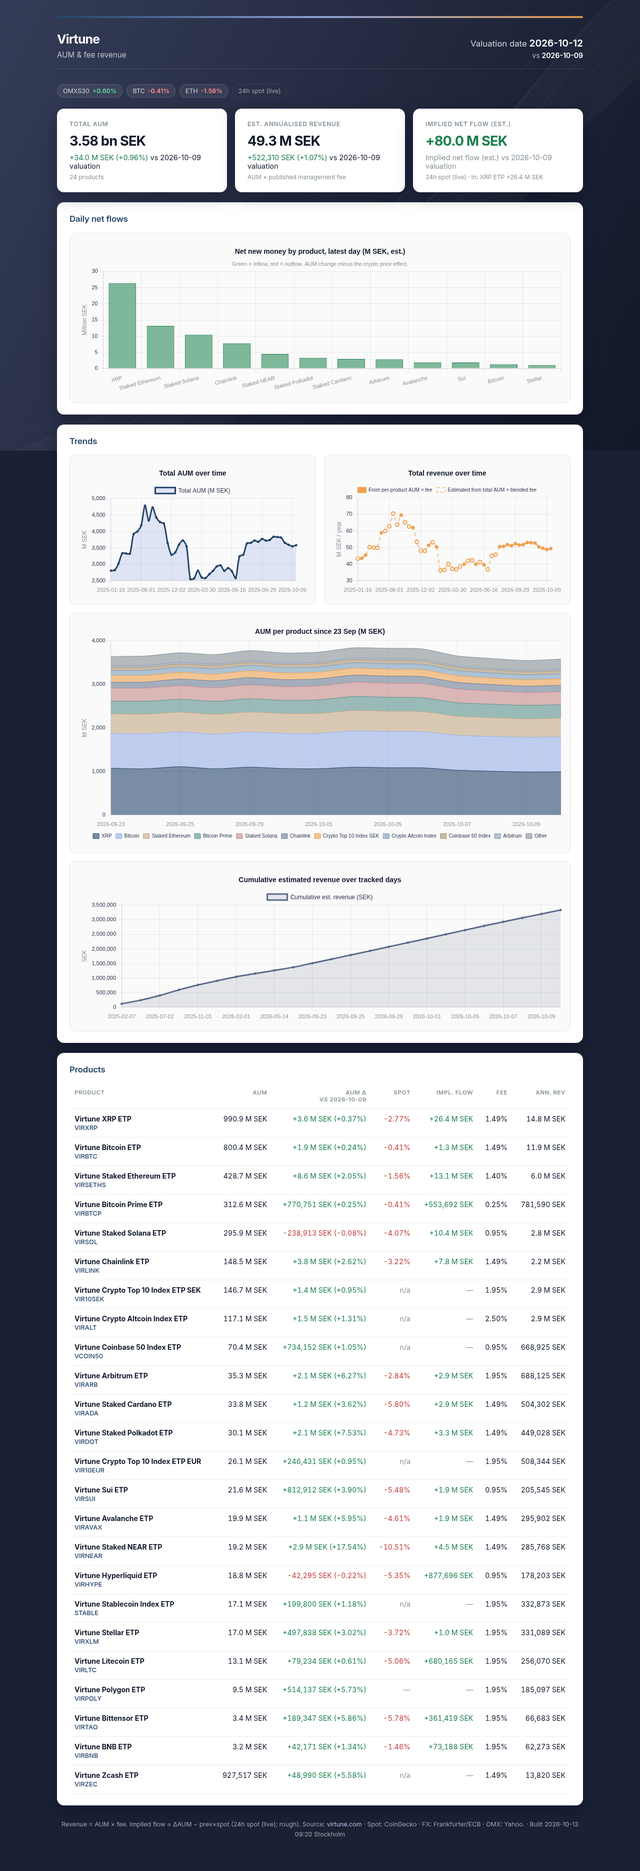
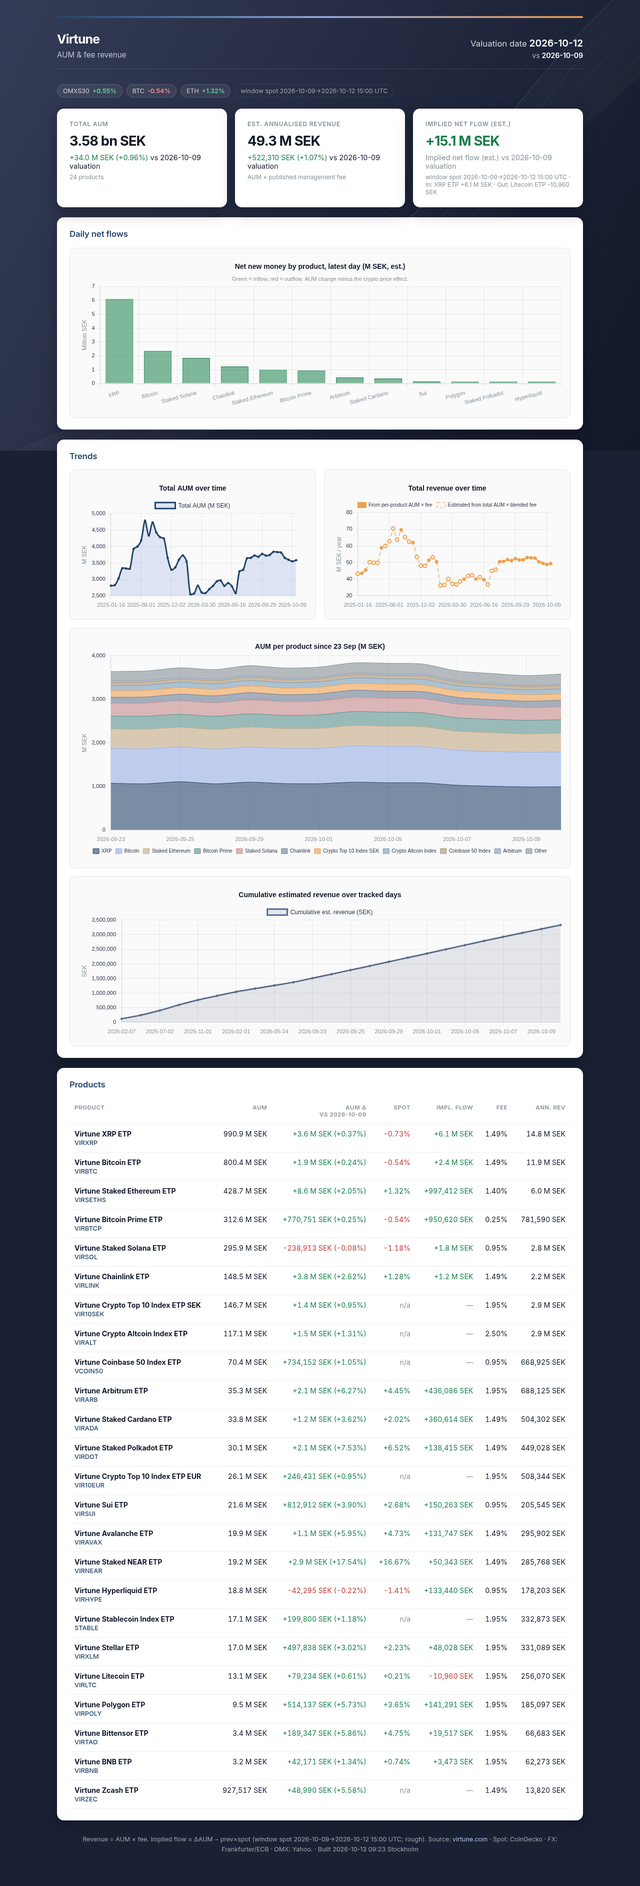
Update dashboard 2026-10-13 09:24 CEST

diff --git a/index.html b/index.html
@@ -253,7 +253,7 @@
     </div>
   </header>
 
-  <div class="market" title="Market context · spot is 24h spot (live)"><span class="chip" title="Yahoo ^OMX">OMXS30 <strong class="up">+0.60%</strong></span><span class="chip" title="24h spot (live)">BTC <strong class="down">-0.41%</strong></span><span class="chip" title="24h spot (live)">ETH <strong class="down">-1.56%</strong></span><span class="chip muted spot-note">24h spot (live)</span></div>
+  <div class="market" title="Market context · spot is window spot 2026-10-09→2026-10-12 15:00 UTC"><span class="chip" title="Yahoo ^OMX">OMXS30 <strong class="up">+0.55%</strong></span><span class="chip" title="window spot 2026-10-09→2026-10-12 15:00 UTC">BTC <strong class="down">-0.54%</strong></span><span class="chip" title="window spot 2026-10-09→2026-10-12 15:00 UTC">ETH <strong class="up">+1.32%</strong></span><span class="chip muted spot-note">window spot 2026-10-09→2026-10-12 15:00 UTC</span></div>
 
   <div class="cards">
     <div class="card">
@@ -270,9 +270,9 @@
     </div>
     <div class="card">
       <div class="label">Implied net flow (est.)</div>
-      <div class="value"><span class="up">+80.0 M SEK</span></div>
+      <div class="value"><span class="up">+15.1 M SEK</span></div>
       <div class="delta muted">Implied net flow (est.) vs 2026-10-09 valuation</div>
-      <div class="usd" style="margin-top:6px">24h spot (live) · In: XRP ETP +26.4 M SEK</div>
+      <div class="usd" style="margin-top:6px">window spot 2026-10-09→2026-10-12 15:00 UTC · In: XRP ETP +6.1 M SEK · Out: Litecoin ETP -10,960 SEK</div>
     </div>
   </div>
 
@@ -304,7 +304,7 @@
             <th>Product</th>
             <th style="text-align:right">AUM</th>
             <th style="text-align:right">AUM Δ<br>vs 2026-10-09</th>
-            <th style="text-align:right" title="24h spot (live)">Spot</th>
+            <th style="text-align:right" title="window spot 2026-10-09→2026-10-12 15:00 UTC">Spot</th>
             <th style="text-align:right" title="ΔAUM − prev×spot (est.)">Impl. flow</th>
             <th style="text-align:right">Fee</th>
             <th style="text-align:right">Ann. rev</th>
@@ -316,8 +316,8 @@
             <span class="ticker">VIRXRP</span></td>
           <td class="num">990.9 M<span class="unit"> SEK</span></td>
           <td class="num"><span class="up">+3.6 M<span class="unit"> SEK</span> (+0.37%)</span></td>
-          <td class="num" title="24h spot (live)"><span class="down">-2.77%</span></td>
-          <td class="num"><span class="up" title="Implied net flow (est.)">+26.4 M<span class="unit"> SEK</span></span></td>
+          <td class="num" title="window spot 2026-10-09→2026-10-12 15:00 UTC"><span class="down">-0.73%</span></td>
+          <td class="num"><span class="up" title="Implied net flow (est.)">+6.1 M<span class="unit"> SEK</span></span></td>
           <td class="num">1.49%</td>
           <td class="num">14.8 M<span class="unit"> SEK</span></td>
         </tr>
@@ -326,8 +326,8 @@
             <span class="ticker">VIRBTC</span></td>
           <td class="num">800.4 M<span class="unit"> SEK</span></td>
           <td class="num"><span class="up">+1.9 M<span class="unit"> SEK</span> (+0.24%)</span></td>
-          <td class="num" title="24h spot (live)"><span class="down">-0.41%</span></td>
-          <td class="num"><span class="up" title="Implied net flow (est.)">+1.3 M<span class="unit"> SEK</span></span></td>
+          <td class="num" title="window spot 2026-10-09→2026-10-12 15:00 UTC"><span class="down">-0.54%</span></td>
+          <td class="num"><span class="up" title="Implied net flow (est.)">+2.4 M<span class="unit"> SEK</span></span></td>
           <td class="num">1.49%</td>
           <td class="num">11.9 M<span class="unit"> SEK</span></td>
         </tr>
@@ -336,8 +336,8 @@
             <span class="ticker">VIRSETHS</span></td>
           <td class="num">428.7 M<span class="unit"> SEK</span></td>
           <td class="num"><span class="up">+8.6 M<span class="unit"> SEK</span> (+2.05%)</span></td>
-          <td class="num" title="24h spot (live)"><span class="down">-1.56%</span></td>
-          <td class="num"><span class="up" title="Implied net flow (est.)">+13.1 M<span class="unit"> SEK</span></span></td>
+          <td class="num" title="window spot 2026-10-09→2026-10-12 15:00 UTC"><span class="up">+1.32%</span></td>
+          <td class="num"><span class="up" title="Implied net flow (est.)">+997,412<span class="unit"> SEK</span></span></td>
           <td class="num">1.40%</td>
           <td class="num">6.0 M<span class="unit"> SEK</span></td>
         </tr>
@@ -346,8 +346,8 @@
             <span class="ticker">VIRBTCP</span></td>
           <td class="num">312.6 M<span class="unit"> SEK</span></td>
           <td class="num"><span class="up">+770,751<span class="unit"> SEK</span> (+0.25%)</span></td>
-          <td class="num" title="24h spot (live)"><span class="down">-0.41%</span></td>
-          <td class="num"><span class="up" title="Implied net flow (est.)">+553,692<span class="unit"> SEK</span></span></td>
+          <td class="num" title="window spot 2026-10-09→2026-10-12 15:00 UTC"><span class="down">-0.54%</span></td>
+          <td class="num"><span class="up" title="Implied net flow (est.)">+950,620<span class="unit"> SEK</span></span></td>
           <td class="num">0.25%</td>
           <td class="num">781,590<span class="unit"> SEK</span></td>
         </tr>
@@ -356,8 +356,8 @@
             <span class="ticker">VIRSOL</span></td>
           <td class="num">295.9 M<span class="unit"> SEK</span></td>
           <td class="num"><span class="down">-238,913<span class="unit"> SEK</span> (-0.08%)</span></td>
-          <td class="num" title="24h spot (live)"><span class="down">-4.07%</span></td>
-          <td class="num"><span class="up" title="Implied net flow (est.)">+10.4 M<span class="unit"> SEK</span></span></td>
+          <td class="num" title="window spot 2026-10-09→2026-10-12 15:00 UTC"><span class="down">-1.18%</span></td>
+          <td class="num"><span class="up" title="Implied net flow (est.)">+1.8 M<span class="unit"> SEK</span></span></td>
           <td class="num">0.95%</td>
           <td class="num">2.8 M<span class="unit"> SEK</span></td>
         </tr>
@@ -366,8 +366,8 @@
             <span class="ticker">VIRLINK</span></td>
           <td class="num">148.5 M<span class="unit"> SEK</span></td>
           <td class="num"><span class="up">+3.8 M<span class="unit"> SEK</span> (+2.62%)</span></td>
-          <td class="num" title="24h spot (live)"><span class="down">-3.22%</span></td>
-          <td class="num"><span class="up" title="Implied net flow (est.)">+7.8 M<span class="unit"> SEK</span></span></td>
+          <td class="num" title="window spot 2026-10-09→2026-10-12 15:00 UTC"><span class="up">+1.28%</span></td>
+          <td class="num"><span class="up" title="Implied net flow (est.)">+1.2 M<span class="unit"> SEK</span></span></td>
           <td class="num">1.49%</td>
           <td class="num">2.2 M<span class="unit"> SEK</span></td>
         </tr>
@@ -376,7 +376,7 @@
             <span class="ticker">VIR10SEK</span></td>
           <td class="num">146.7 M<span class="unit"> SEK</span></td>
           <td class="num"><span class="up">+1.4 M<span class="unit"> SEK</span> (+0.95%)</span></td>
-          <td class="num" title="24h spot (live)"><span class="muted" title="Index / multi-asset">n/a</span></td>
+          <td class="num" title="window spot 2026-10-09→2026-10-12 15:00 UTC"><span class="muted" title="Index / multi-asset">n/a</span></td>
           <td class="num"><span class="muted">—</span></td>
           <td class="num">1.95%</td>
           <td class="num">2.9 M<span class="unit"> SEK</span></td>
@@ -386,7 +386,7 @@
             <span class="ticker">VIRALT</span></td>
           <td class="num">117.1 M<span class="unit"> SEK</span></td>
           <td class="num"><span class="up">+1.5 M<span class="unit"> SEK</span> (+1.31%)</span></td>
-          <td class="num" title="24h spot (live)"><span class="muted" title="Index / multi-asset">n/a</span></td>
+          <td class="num" title="window spot 2026-10-09→2026-10-12 15:00 UTC"><span class="muted" title="Index / multi-asset">n/a</span></td>
           <td class="num"><span class="muted">—</span></td>
           <td class="num">2.50%</td>
           <td class="num">2.9 M<span class="unit"> SEK</span></td>
@@ -396,7 +396,7 @@
             <span class="ticker">VCOIN50</span></td>
           <td class="num">70.4 M<span class="unit"> SEK</span></td>
           <td class="num"><span class="up">+734,152<span class="unit"> SEK</span> (+1.05%)</span></td>
-          <td class="num" title="24h spot (live)"><span class="muted" title="Index / multi-asset">n/a</span></td>
+          <td class="num" title="window spot 2026-10-09→2026-10-12 15:00 UTC"><span class="muted" title="Index / multi-asset">n/a</span></td>
           <td class="num"><span class="muted">—</span></td>
           <td class="num">0.95%</td>
           <td class="num">668,925<span class="unit"> SEK</span></td>
@@ -406,8 +406,8 @@
             <span class="ticker">VIRARB</span></td>
           <td class="num">35.3 M<span class="unit"> SEK</span></td>
           <td class="num"><span class="up">+2.1 M<span class="unit"> SEK</span> (+6.27%)</span></td>
-          <td class="num" title="24h spot (live)"><span class="down">-2.84%</span></td>
-          <td class="num"><span class="up" title="Implied net flow (est.)">+2.9 M<span class="unit"> SEK</span></span></td>
+          <td class="num" title="window spot 2026-10-09→2026-10-12 15:00 UTC"><span class="up">+4.45%</span></td>
+          <td class="num"><span class="up" title="Implied net flow (est.)">+436,086<span class="unit"> SEK</span></span></td>
           <td class="num">1.95%</td>
           <td class="num">688,125<span class="unit"> SEK</span></td>
         </tr>
@@ -416,8 +416,8 @@
             <span class="ticker">VIRADA</span></td>
           <td class="num">33.8 M<span class="unit"> SEK</span></td>
           <td class="num"><span class="up">+1.2 M<span class="unit"> SEK</span> (+3.62%)</span></td>
-          <td class="num" title="24h spot (live)"><span class="down">-5.80%</span></td>
-          <td class="num"><span class="up" title="Implied net flow (est.)">+2.9 M<span class="unit"> SEK</span></span></td>
+          <td class="num" title="window spot 2026-10-09→2026-10-12 15:00 UTC"><span class="up">+2.02%</span></td>
+          <td class="num"><span class="up" title="Implied net flow (est.)">+360,614<span class="unit"> SEK</span></span></td>
           <td class="num">1.49%</td>
           <td class="num">504,302<span class="unit"> SEK</span></td>
         </tr>
@@ -426,8 +426,8 @@
             <span class="ticker">VIRDOT</span></td>
           <td class="num">30.1 M<span class="unit"> SEK</span></td>
           <td class="num"><span class="up">+2.1 M<span class="unit"> SEK</span> (+7.53%)</span></td>
-          <td class="num" title="24h spot (live)"><span class="down">-4.73%</span></td>
-          <td class="num"><span class="up" title="Implied net flow (est.)">+3.3 M<span class="unit"> SEK</span></span></td>
+          <td class="num" title="window spot 2026-10-09→2026-10-12 15:00 UTC"><span class="up">+6.52%</span></td>
+          <td class="num"><span class="up" title="Implied net flow (est.)">+138,415<span class="unit"> SEK</span></span></td>
           <td class="num">1.49%</td>
           <td class="num">449,028<span class="unit"> SEK</span></td>
         </tr>
@@ -436,7 +436,7 @@
             <span class="ticker">VIR10EUR</span></td>
           <td class="num">26.1 M<span class="unit"> SEK</span></td>
           <td class="num"><span class="up">+246,431<span class="unit"> SEK</span> (+0.95%)</span></td>
-          <td class="num" title="24h spot (live)"><span class="muted" title="Index / multi-asset">n/a</span></td>
+          <td class="num" title="window spot 2026-10-09→2026-10-12 15:00 UTC"><span class="muted" title="Index / multi-asset">n/a</span></td>
           <td class="num"><span class="muted">—</span></td>
           <td class="num">1.95%</td>
           <td class="num">508,344<span class="unit"> SEK</span></td>
@@ -446,8 +446,8 @@
             <span class="ticker">VIRSUI</span></td>
           <td class="num">21.6 M<span class="unit"> SEK</span></td>
           <td class="num"><span class="up">+812,912<span class="unit"> SEK</span> (+3.90%)</span></td>
-          <td class="num" title="24h spot (live)"><span class="down">-5.48%</span></td>
-          <td class="num"><span class="up" title="Implied net flow (est.)">+1.9 M<span class="unit"> SEK</span></span></td>
+          <td class="num" title="window spot 2026-10-09→2026-10-12 15:00 UTC"><span class="up">+2.68%</span></td>
+          <td class="num"><span class="up" title="Implied net flow (est.)">+150,263<span class="unit"> SEK</span></span></td>
           <td class="num">0.95%</td>
           <td class="num">205,545<span class="unit"> SEK</span></td>
         </tr>
@@ -456,8 +456,8 @@
             <span class="ticker">VIRAVAX</span></td>
           <td class="num">19.9 M<span class="unit"> SEK</span></td>
           <td class="num"><span class="up">+1.1 M<span class="unit"> SEK</span> (+5.95%)</span></td>
-          <td class="num" title="24h spot (live)"><span class="down">-4.61%</span></td>
-          <td class="num"><span class="up" title="Implied net flow (est.)">+1.9 M<span class="unit"> SEK</span></span></td>
+          <td class="num" title="window spot 2026-10-09→2026-10-12 15:00 UTC"><span class="up">+4.73%</span></td>
+          <td class="num"><span class="up" title="Implied net flow (est.)">+131,747<span class="unit"> SEK</span></span></td>
           <td class="num">1.49%</td>
           <td class="num">295,902<span class="unit"> SEK</span></td>
         </tr>
@@ -466,8 +466,8 @@
             <span class="ticker">VIRNEAR</span></td>
           <td class="num">19.2 M<span class="unit"> SEK</span></td>
           <td class="num"><span class="up">+2.9 M<span class="unit"> SEK</span> (+17.54%)</span></td>
-          <td class="num" title="24h spot (live)"><span class="down">-10.51%</span></td>
-          <td class="num"><span class="up" title="Implied net flow (est.)">+4.5 M<span class="unit"> SEK</span></span></td>
+          <td class="num" title="window spot 2026-10-09→2026-10-12 15:00 UTC"><span class="up">+16.67%</span></td>
+          <td class="num"><span class="up" title="Implied net flow (est.)">+50,343<span class="unit"> SEK</span></span></td>
           <td class="num">1.49%</td>
           <td class="num">285,768<span class="unit"> SEK</span></td>
         </tr>
@@ -476,8 +476,8 @@
             <span class="ticker">VIRHYPE</span></td>
           <td class="num">18.8 M<span class="unit"> SEK</span></td>
           <td class="num"><span class="down">-42,295<span class="unit"> SEK</span> (-0.22%)</span></td>
-          <td class="num" title="24h spot (live)"><span class="down">-5.35%</span></td>
-          <td class="num"><span class="up" title="Implied net flow (est.)">+877,696<span class="unit"> SEK</span></span></td>
+          <td class="num" title="window spot 2026-10-09→2026-10-12 15:00 UTC"><span class="down">-1.41%</span></td>
+          <td class="num"><span class="up" title="Implied net flow (est.)">+133,440<span class="unit"> SEK</span></span></td>
           <td class="num">0.95%</td>
           <td class="num">178,203<span class="unit"> SEK</span></td>
         </tr>
@@ -486,7 +486,7 @@
             <span class="ticker">STABLE</span></td>
           <td class="num">17.1 M<span class="unit"> SEK</span></td>
           <td class="num"><span class="up">+199,800<span class="unit"> SEK</span> (+1.18%)</span></td>
-          <td class="num" title="24h spot (live)"><span class="muted" title="Index / multi-asset">n/a</span></td>
+          <td class="num" title="window spot 2026-10-09→2026-10-12 15:00 UTC"><span class="muted" title="Index / multi-asset">n/a</span></td>
           <td class="num"><span class="muted">—</span></td>
           <td class="num">1.95%</td>
           <td class="num">332,873<span class="unit"> SEK</span></td>
@@ -496,8 +496,8 @@
             <span class="ticker">VIRXLM</span></td>
           <td class="num">17.0 M<span class="unit"> SEK</span></td>
           <td class="num"><span class="up">+497,838<span class="unit"> SEK</span> (+3.02%)</span></td>
-          <td class="num" title="24h spot (live)"><span class="down">-3.72%</span></td>
-          <td class="num"><span class="up" title="Implied net flow (est.)">+1.0 M<span class="unit"> SEK</span></span></td>
+          <td class="num" title="window spot 2026-10-09→2026-10-12 15:00 UTC"><span class="up">+2.23%</span></td>
+          <td class="num"><span class="up" title="Implied net flow (est.)">+48,028<span class="unit"> SEK</span></span></td>
           <td class="num">1.95%</td>
           <td class="num">331,089<span class="unit"> SEK</span></td>
         </tr>
@@ -506,8 +506,8 @@
             <span class="ticker">VIRLTC</span></td>
           <td class="num">13.1 M<span class="unit"> SEK</span></td>
           <td class="num"><span class="up">+79,234<span class="unit"> SEK</span> (+0.61%)</span></td>
-          <td class="num" title="24h spot (live)"><span class="down">-5.06%</span></td>
-          <td class="num"><span class="up" title="Implied net flow (est.)">+680,165<span class="unit"> SEK</span></span></td>
+          <td class="num" title="window spot 2026-10-09→2026-10-12 15:00 UTC"><span class="up">+0.21%</span></td>
+          <td class="num"><span class="down" title="Implied net flow (est.)">-10,960<span class="unit"> SEK</span></span></td>
           <td class="num">1.95%</td>
           <td class="num">256,070<span class="unit"> SEK</span></td>
         </tr>
@@ -516,8 +516,8 @@
             <span class="ticker">VIRPOLY</span></td>
           <td class="num">9.5 M<span class="unit"> SEK</span></td>
           <td class="num"><span class="up">+514,137<span class="unit"> SEK</span> (+5.73%)</span></td>
-          <td class="num" title="24h spot (live)"><span class="muted">—</span></td>
-          <td class="num"><span class="muted">—</span></td>
+          <td class="num" title="window spot 2026-10-09→2026-10-12 15:00 UTC"><span class="up">+3.65%</span></td>
+          <td class="num"><span class="up" title="Implied net flow (est.)">+141,291<span class="unit"> SEK</span></span></td>
           <td class="num">1.95%</td>
           <td class="num">185,097<span class="unit"> SEK</span></td>
         </tr>
@@ -526,8 +526,8 @@
             <span class="ticker">VIRTAO</span></td>
           <td class="num">3.4 M<span class="unit"> SEK</span></td>
           <td class="num"><span class="up">+189,347<span class="unit"> SEK</span> (+5.86%)</span></td>
-          <td class="num" title="24h spot (live)"><span class="down">-5.78%</span></td>
-          <td class="num"><span class="up" title="Implied net flow (est.)">+361,419<span class="unit"> SEK</span></span></td>
+          <td class="num" title="window spot 2026-10-09→2026-10-12 15:00 UTC"><span class="up">+4.75%</span></td>
+          <td class="num"><span class="up" title="Implied net flow (est.)">+19,517<span class="unit"> SEK</span></span></td>
           <td class="num">1.95%</td>
           <td class="num">66,683<span class="unit"> SEK</span></td>
         </tr>
@@ -536,8 +536,8 @@
             <span class="ticker">VIRBNB</span></td>
           <td class="num">3.2 M<span class="unit"> SEK</span></td>
           <td class="num"><span class="up">+42,171<span class="unit"> SEK</span> (+1.34%)</span></td>
-          <td class="num" title="24h spot (live)"><span class="down">-1.46%</span></td>
-          <td class="num"><span class="up" title="Implied net flow (est.)">+73,188<span class="unit"> SEK</span></span></td>
+          <td class="num" title="window spot 2026-10-09→2026-10-12 15:00 UTC"><span class="up">+0.74%</span></td>
+          <td class="num"><span class="up" title="Implied net flow (est.)">+3,473<span class="unit"> SEK</span></span></td>
           <td class="num">1.95%</td>
           <td class="num">62,273<span class="unit"> SEK</span></td>
         </tr>
@@ -546,7 +546,7 @@
             <span class="ticker">VIRZEC</span></td>
           <td class="num">927,517<span class="unit"> SEK</span></td>
           <td class="num"><span class="up">+48,990<span class="unit"> SEK</span> (+5.58%)</span></td>
-          <td class="num" title="24h spot (live)"><span class="muted" title="Index / multi-asset">n/a</span></td>
+          <td class="num" title="window spot 2026-10-09→2026-10-12 15:00 UTC"><span class="muted" title="Index / multi-asset">n/a</span></td>
           <td class="num"><span class="muted">—</span></td>
           <td class="num">1.49%</td>
           <td class="num">13,820<span class="unit"> SEK</span></td>
@@ -556,14 +556,14 @@
   </section>
 
   <footer>
-    Revenue = AUM × fee. Implied flow ≈ ΔAUM − prev×spot (24h spot (live); rough).
+    Revenue = AUM × fee. Implied flow ≈ ΔAUM − prev×spot (window spot 2026-10-09→2026-10-12 15:00 UTC; rough).
     Source: <a href="https://www.virtune.com" rel="noopener">virtune.com</a>
     · Spot: CoinGecko · FX: Frankfurter/ECB · OMX: Yahoo.
-    · Built 2026-10-13 09:20 Stockholm
+    · Built 2026-10-13 09:23 Stockholm
   </footer>
 </div>
 <script>
-const DATA = {"totalDates": ["2025-01-16", "2025-02-07", "2025-05-02", "2025-05-16", "2025-06-04", "2025-06-10", "2025-07-02", "2025-07-16", "2025-08-01", "2025-08-14", "2025-09-02", "2025-09-12", "2025-10-01", "2025-10-16", "2025-11-01", "2025-11-17", "2025-12-02", "2025-12-17", "2026-01-02", "2026-01-15", "2026-02-01", "2026-02-12", "2026-03-01", "2026-03-18", "2026-03-30", "2026-04-07", "2026-04-09", "2026-04-19", "2026-04-28", "2026-05-05", "2026-05-14", "2026-05-21", "2026-06-16", "2026-07-23", "2026-08-31", "2026-09-08", "2026-09-23", "2026-09-24", "2026-09-25", "2026-09-28", "2026-09-29", "2026-09-30", "2026-10-01", "2026-10-02", "2026-10-05", "2026-10-06", "2026-10-07", "2026-10-08", "2026-10-09", "2026-10-12"], "totalAumMSek": [2805.41, 2820.2, 3022.1, 3334.47, 3327.67, 3321.68, 3922.76, 3995.7, 4185.61, 4784.86, 4332.45, 4730.21, 4425.13, 4280.66, 4240.11, 3649.65, 3290.0, 3360.89, 3596.35, 3725.31, 3542.85, 2548.58, 2568.33, 2805.41, 2597.97, 2578.21, 2696.75, 2799.73, 2933.83, 2963.46, 2799.12, 2884.43, 2785.26, 2578.21, 3240.05, 3289.44, 3638.87, 3651.39, 3724.32, 3682.88, 3773.57, 3719.57, 3739.32, 3836.99, 3826.91, 3812.1, 3652.47, 3593.63, 3546.13, 3580.16], "productDates": ["2025-02-07", "2025-05-02", "2025-07-02", "2025-09-12", "2025-11-01", "2026-01-02", "2026-02-01", "2026-04-19", "2026-05-14", "2026-06-16", "2026-09-23", "2026-09-24", "2026-09-25", "2026-09-28", "2026-09-29", "2026-09-30", "2026-10-01", "2026-10-02", "2026-10-05", "2026-10-06", "2026-10-07", "2026-10-08", "2026-10-09", "2026-10-12"], "stacked": [{"label": "Virtune XRP ETP", "data": [909.656, 1133.965, 1826.524, 1660.579, 1393.652, 1266.491, 1266.491, 867.761, 867.761, 867.761, 1072.828, 1061.136, 1109.059, 1060.283, 1098.405, 1066.446, 1063.361, 1097.536, 1085.387, 1083.144, 1028.583, 1005.384, 987.249, 990.886], "backgroundColor": "#23456a99", "borderColor": "#23456a", "borderWidth": 1, "fill": true, "tension": 0.25}, {"label": "Virtune Bitcoin ETP", "data": [702.118, 679.159, 786.571, 799.962, 692.718, 698.896, 701.267, 684.656, 685.315, 685.315, 802.417, 801.782, 798.296, 797.652, 805.816, 806.455, 810.901, 834.883, 832.492, 828.404, 803.108, 797.798, 798.483, 800.375], "backgroundColor": "#96ade699", "borderColor": "#96ade6", "borderWidth": 1, "fill": true, "tension": 0.25}, {"label": "Virtune Staked Ethereum ETP", "data": [308.972, 233.221, 319.597, 609.197, 584.033, 437.269, 437.269, 334.734, 332.081, 332.081, 447.273, 448.95, 450.825, 450.908, 458.857, 453.956, 457.263, 465.184, 461.636, 458.499, 435.853, 428.661, 420.134, 428.733], "backgroundColor": "#c4a88299", "borderColor": "#c4a882", "borderWidth": 1, "fill": true, "tension": 0.25}, {"label": "Virtune Bitcoin Prime ETP", "data": [null, 64.675, 64.675, 151.192, 151.192, 182.263, 182.263, 160.355, 160.355, 160.355, 291.653, 300.171, 297.85, 300.941, 304.031, 304.283, 312.263, 321.509, 322.774, 321.2, 311.402, 311.587, 311.865, 312.636], "backgroundColor": "#5a8f8a99", "borderColor": "#5a8f8a", "borderWidth": 1, "fill": true, "tension": 0.25}, {"label": "Virtune Staked Solana ETP", "data": [214.955, 217.293, 213.472, 450.613, 477.713, 301.537, 305.117, 197.75, 197.75, 197.75, 297.491, 302.742, 310.261, 311.388, 319.632, 316.828, 318.535, 326.385, 325.946, 326.357, 314.35, 303.8, 296.106, 295.868], "backgroundColor": "#c4898a99", "borderColor": "#c4898a", "borderWidth": 1, "fill": true, "tension": 0.25}, {"label": "Virtune Chainlink ETP", "data": [157.262, 114.519, 97.691, 202.333, 121.15, 105.537, 105.537, 86.994, 86.994, 86.994, 135.903, 138.467, 152.338, 159.029, 166.959, 158.265, 162.92, 163.255, 159.281, 158.498, 152.466, 147.256, 144.67, 148.458], "backgroundColor": "#6b7c9399", "borderColor": "#6b7c93", "borderWidth": 1, "fill": true, "tension": 0.25}, {"label": "Virtune Crypto Top 10 Index ETP SEK", "data": [150.658, 125.223, 146.879, 197.399, 165.198, 161.956, 161.956, 116.449, 116.449, 106.154, 151.274, 151.527, 152.236, 151.295, 153.596, 152.524, 153.177, 156.991, 156.402, 155.461, 149.65, 147.212, 145.331, 146.718], "backgroundColor": "#eea04f99", "borderColor": "#eea04f", "borderWidth": 1, "fill": true, "tension": 0.25}, {"label": "Virtune Crypto Altcoin Index ETP", "data": [193.932, 162.793, 146.539, 253.569, 253.569, 99.243, 99.243, 99.063, 99.063, 99.063, 115.741, 118.545, 122.126, 123.241, 124.882, 122.114, 122.01, 125.348, 127.996, 127.363, 121.373, 118.626, 115.567, 117.087], "backgroundColor": "#7a9bb899", "borderColor": "#7a9bb8", "borderWidth": 1, "fill": true, "tension": 0.25}, {"label": "Virtune Coinbase 50 Index ETP", "data": [null, 5.016, 13.544, 49.493, 60.95, 67.701, 67.701, 60.398, 60.398, 60.398, 72.31, 72.402, 72.816, 72.503, 73.726, 73.172, 73.365, 75.298, 74.872, 74.502, 71.541, 70.449, 69.679, 70.413], "backgroundColor": "#a8907099", "borderColor": "#a89070", "borderWidth": 1, "fill": true, "tension": 0.25}, {"label": "Virtune Arbitrum ETP", "data": [null, 34.393, 30.629, 51.919, 49.189, 38.116, 19.507, 19.791, 19.791, 19.791, 39.317, 38.154, 38.526, 35.848, 36.949, 35.821, 35.375, 36.238, 38.312, 37.275, 34.537, 34.079, 33.208, 35.288], "backgroundColor": "#8a9bb099", "borderColor": "#8a9bb0", "borderWidth": 1, "fill": true, "tension": 0.25}, {"label": "Other", "data": [182.648, 251.84, 276.644, 303.949, 290.746, 237.34, 196.499, 171.774, 173.164, 169.597, 212.659, 217.512, 219.984, 219.794, 230.716, 229.711, 230.148, 234.361, 241.807, 241.392, 229.61, 228.783, 223.839, 233.697], "backgroundColor": "#85909699", "borderColor": "#859096", "borderWidth": 1, "fill": true, "tension": 0.25}], "stackedDates": ["2026-09-23", "2026-09-24", "2026-09-25", "2026-09-28", "2026-09-29", "2026-09-30", "2026-10-01", "2026-10-02", "2026-10-05", "2026-10-06", "2026-10-07", "2026-10-08", "2026-10-09", "2026-10-12"], "stackedRecent": [{"label": "XRP", "data": [1072.828, 1061.136, 1109.059, 1060.283, 1098.405, 1066.446, 1063.361, 1097.536, 1085.387, 1083.144, 1028.583, 1005.384, 987.249, 990.886], "backgroundColor": "#23456a99", "borderColor": "#23456a", "borderWidth": 1, "fill": "origin", "tension": 0.25, "spanGaps": true, "pointRadius": 0}, {"label": "Bitcoin", "data": [802.417, 801.782, 798.296, 797.652, 805.816, 806.455, 810.901, 834.883, 832.492, 828.404, 803.108, 797.798, 798.483, 800.375], "backgroundColor": "#96ade699", "borderColor": "#96ade6", "borderWidth": 1, "fill": "-1", "tension": 0.25, "spanGaps": true, "pointRadius": 0}, {"label": "Staked Ethereum", "data": [447.273, 448.95, 450.825, 450.908, 458.857, 453.956, 457.263, 465.184, 461.636, 458.499, 435.853, 428.661, 420.134, 428.733], "backgroundColor": "#c4a88299", "borderColor": "#c4a882", "borderWidth": 1, "fill": "-1", "tension": 0.25, "spanGaps": true, "pointRadius": 0}, {"label": "Bitcoin Prime", "data": [291.653, 300.171, 297.85, 300.941, 304.031, 304.283, 312.263, 321.509, 322.774, 321.2, 311.402, 311.587, 311.865, 312.636], "backgroundColor": "#5a8f8a99", "borderColor": "#5a8f8a", "borderWidth": 1, "fill": "-1", "tension": 0.25, "spanGaps": true, "pointRadius": 0}, {"label": "Staked Solana", "data": [297.491, 302.742, 310.261, 311.388, 319.632, 316.828, 318.535, 326.385, 325.946, 326.357, 314.35, 303.8, 296.106, 295.868], "backgroundColor": "#c4898a99", "borderColor": "#c4898a", "borderWidth": 1, "fill": "-1", "tension": 0.25, "spanGaps": true, "pointRadius": 0}, {"label": "Chainlink", "data": [135.903, 138.467, 152.338, 159.029, 166.959, 158.265, 162.92, 163.255, 159.281, 158.498, 152.466, 147.256, 144.67, 148.458], "backgroundColor": "#6b7c9399", "borderColor": "#6b7c93", "borderWidth": 1, "fill": "-1", "tension": 0.25, "spanGaps": true, "pointRadius": 0}, {"label": "Crypto Top 10 Index SEK", "data": [151.274, 151.527, 152.236, 151.295, 153.596, 152.524, 153.177, 156.991, 156.402, 155.461, 149.65, 147.212, 145.331, 146.718], "backgroundColor": "#eea04f99", "borderColor": "#eea04f", "borderWidth": 1, "fill": "-1", "tension": 0.25, "spanGaps": true, "pointRadius": 0}, {"label": "Crypto Altcoin Index", "data": [115.741, 118.545, 122.126, 123.241, 124.882, 122.114, 122.01, 125.348, 127.996, 127.363, 121.373, 118.626, 115.567, 117.087], "backgroundColor": "#7a9bb899", "borderColor": "#7a9bb8", "borderWidth": 1, "fill": "-1", "tension": 0.25, "spanGaps": true, "pointRadius": 0}, {"label": "Coinbase 50 Index", "data": [72.31, 72.402, 72.816, 72.503, 73.726, 73.172, 73.365, 75.298, 74.872, 74.502, 71.541, 70.449, 69.679, 70.413], "backgroundColor": "#a8907099", "borderColor": "#a89070", "borderWidth": 1, "fill": "-1", "tension": 0.25, "spanGaps": true, "pointRadius": 0}, {"label": "Arbitrum", "data": [39.317, 38.154, 38.526, 35.848, 36.949, 35.821, 35.375, 36.238, 38.312, 37.275, 34.537, 34.079, 33.208, 35.288], "backgroundColor": "#8a9bb099", "borderColor": "#8a9bb0", "borderWidth": 1, "fill": "-1", "tension": 0.25, "spanGaps": true, "pointRadius": 0}, {"label": "Other", "data": [212.659, 217.512, 219.984, 219.794, 230.716, 229.711, 230.148, 234.361, 241.807, 241.392, 229.61, 228.783, 223.839, 233.697], "backgroundColor": "#85909699", "borderColor": "#859096", "borderWidth": 1, "fill": "-1", "tension": 0.25, "spanGaps": true, "pointRadius": 0}], "totalRevMSek": [43.2479, 43.4759, 45.4824, 50.1836, 49.868, 49.7782, 58.786, 59.879, 62.7249, 70.3692, 63.7157, 69.5654, 65.0787, 62.5371, 61.9448, 53.3186, 48.0643, 47.9425, 51.3012, 53.1408, 50.3128, 36.1929, 36.4734, 40.0446, 37.0836, 36.8016, 38.4936, 39.9635, 41.8776, 42.2948, 39.9494, 41.167, 39.6744, 36.7251, 44.9367, 45.6218, 50.468, 50.5555, 51.682, 51.0183, 52.2944, 51.4514, 51.628, 52.9696, 52.8334, 52.6172, 50.3538, 49.4984, 48.7943, 49.3166], "revIsEstimated": [true, false, false, true, true, true, false, true, true, true, true, false, true, true, false, true, true, true, false, true, false, true, true, true, true, true, true, false, true, true, false, true, false, true, true, true, false, false, false, false, false, false, false, false, false, false, false, false, false, false], "cumulative": [119112.0, 243722.0, 404779.0, 595369.0, 765081.0, 905632.0, 1043475.0, 1152964.0, 1262415.0, 1371111.0, 1509380.0, 1647888.0, 1789483.0, 1929259.0, 2072531.0, 2213494.0, 2354940.0, 2500062.0, 2644811.0, 2788968.0, 2926924.0, 3062536.0, 3196219.0, 3331333.0], "flowBarLabels": ["XRP", "Staked Ethereum", "Staked Solana", "Chainlink", "Staked NEAR", "Staked Polkadot", "Staked Cardano", "Arbitrum", "Avalanche", "Sui", "Bitcoin", "Stellar"], "flowBarMSek": [26.37, 13.131, 10.434, 7.762, 4.506, 3.308, 2.928, 2.868, 1.892, 1.859, 1.336, 1.034]};
+const DATA = {"totalDates": ["2025-01-16", "2025-02-07", "2025-05-02", "2025-05-16", "2025-06-04", "2025-06-10", "2025-07-02", "2025-07-16", "2025-08-01", "2025-08-14", "2025-09-02", "2025-09-12", "2025-10-01", "2025-10-16", "2025-11-01", "2025-11-17", "2025-12-02", "2025-12-17", "2026-01-02", "2026-01-15", "2026-02-01", "2026-02-12", "2026-03-01", "2026-03-18", "2026-03-30", "2026-04-07", "2026-04-09", "2026-04-19", "2026-04-28", "2026-05-05", "2026-05-14", "2026-05-21", "2026-06-16", "2026-07-23", "2026-08-31", "2026-09-08", "2026-09-23", "2026-09-24", "2026-09-25", "2026-09-28", "2026-09-29", "2026-09-30", "2026-10-01", "2026-10-02", "2026-10-05", "2026-10-06", "2026-10-07", "2026-10-08", "2026-10-09", "2026-10-12"], "totalAumMSek": [2805.41, 2820.2, 3022.1, 3334.47, 3327.67, 3321.68, 3922.76, 3995.7, 4185.61, 4784.86, 4332.45, 4730.21, 4425.13, 4280.66, 4240.11, 3649.65, 3290.0, 3360.89, 3596.35, 3725.31, 3542.85, 2548.58, 2568.33, 2805.41, 2597.97, 2578.21, 2696.75, 2799.73, 2933.83, 2963.46, 2799.12, 2884.43, 2785.26, 2578.21, 3240.05, 3289.44, 3638.87, 3651.39, 3724.32, 3682.88, 3773.57, 3719.57, 3739.32, 3836.99, 3826.91, 3812.1, 3652.47, 3593.63, 3546.13, 3580.16], "productDates": ["2025-02-07", "2025-05-02", "2025-07-02", "2025-09-12", "2025-11-01", "2026-01-02", "2026-02-01", "2026-04-19", "2026-05-14", "2026-06-16", "2026-09-23", "2026-09-24", "2026-09-25", "2026-09-28", "2026-09-29", "2026-09-30", "2026-10-01", "2026-10-02", "2026-10-05", "2026-10-06", "2026-10-07", "2026-10-08", "2026-10-09", "2026-10-12"], "stacked": [{"label": "Virtune XRP ETP", "data": [909.656, 1133.965, 1826.524, 1660.579, 1393.652, 1266.491, 1266.491, 867.761, 867.761, 867.761, 1072.828, 1061.136, 1109.059, 1060.283, 1098.405, 1066.446, 1063.361, 1097.536, 1085.387, 1083.144, 1028.583, 1005.384, 987.249, 990.886], "backgroundColor": "#23456a99", "borderColor": "#23456a", "borderWidth": 1, "fill": true, "tension": 0.25}, {"label": "Virtune Bitcoin ETP", "data": [702.118, 679.159, 786.571, 799.962, 692.718, 698.896, 701.267, 684.656, 685.315, 685.315, 802.417, 801.782, 798.296, 797.652, 805.816, 806.455, 810.901, 834.883, 832.492, 828.404, 803.108, 797.798, 798.483, 800.375], "backgroundColor": "#96ade699", "borderColor": "#96ade6", "borderWidth": 1, "fill": true, "tension": 0.25}, {"label": "Virtune Staked Ethereum ETP", "data": [308.972, 233.221, 319.597, 609.197, 584.033, 437.269, 437.269, 334.734, 332.081, 332.081, 447.273, 448.95, 450.825, 450.908, 458.857, 453.956, 457.263, 465.184, 461.636, 458.499, 435.853, 428.661, 420.134, 428.733], "backgroundColor": "#c4a88299", "borderColor": "#c4a882", "borderWidth": 1, "fill": true, "tension": 0.25}, {"label": "Virtune Bitcoin Prime ETP", "data": [null, 64.675, 64.675, 151.192, 151.192, 182.263, 182.263, 160.355, 160.355, 160.355, 291.653, 300.171, 297.85, 300.941, 304.031, 304.283, 312.263, 321.509, 322.774, 321.2, 311.402, 311.587, 311.865, 312.636], "backgroundColor": "#5a8f8a99", "borderColor": "#5a8f8a", "borderWidth": 1, "fill": true, "tension": 0.25}, {"label": "Virtune Staked Solana ETP", "data": [214.955, 217.293, 213.472, 450.613, 477.713, 301.537, 305.117, 197.75, 197.75, 197.75, 297.491, 302.742, 310.261, 311.388, 319.632, 316.828, 318.535, 326.385, 325.946, 326.357, 314.35, 303.8, 296.106, 295.868], "backgroundColor": "#c4898a99", "borderColor": "#c4898a", "borderWidth": 1, "fill": true, "tension": 0.25}, {"label": "Virtune Chainlink ETP", "data": [157.262, 114.519, 97.691, 202.333, 121.15, 105.537, 105.537, 86.994, 86.994, 86.994, 135.903, 138.467, 152.338, 159.029, 166.959, 158.265, 162.92, 163.255, 159.281, 158.498, 152.466, 147.256, 144.67, 148.458], "backgroundColor": "#6b7c9399", "borderColor": "#6b7c93", "borderWidth": 1, "fill": true, "tension": 0.25}, {"label": "Virtune Crypto Top 10 Index ETP SEK", "data": [150.658, 125.223, 146.879, 197.399, 165.198, 161.956, 161.956, 116.449, 116.449, 106.154, 151.274, 151.527, 152.236, 151.295, 153.596, 152.524, 153.177, 156.991, 156.402, 155.461, 149.65, 147.212, 145.331, 146.718], "backgroundColor": "#eea04f99", "borderColor": "#eea04f", "borderWidth": 1, "fill": true, "tension": 0.25}, {"label": "Virtune Crypto Altcoin Index ETP", "data": [193.932, 162.793, 146.539, 253.569, 253.569, 99.243, 99.243, 99.063, 99.063, 99.063, 115.741, 118.545, 122.126, 123.241, 124.882, 122.114, 122.01, 125.348, 127.996, 127.363, 121.373, 118.626, 115.567, 117.087], "backgroundColor": "#7a9bb899", "borderColor": "#7a9bb8", "borderWidth": 1, "fill": true, "tension": 0.25}, {"label": "Virtune Coinbase 50 Index ETP", "data": [null, 5.016, 13.544, 49.493, 60.95, 67.701, 67.701, 60.398, 60.398, 60.398, 72.31, 72.402, 72.816, 72.503, 73.726, 73.172, 73.365, 75.298, 74.872, 74.502, 71.541, 70.449, 69.679, 70.413], "backgroundColor": "#a8907099", "borderColor": "#a89070", "borderWidth": 1, "fill": true, "tension": 0.25}, {"label": "Virtune Arbitrum ETP", "data": [null, 34.393, 30.629, 51.919, 49.189, 38.116, 19.507, 19.791, 19.791, 19.791, 39.317, 38.154, 38.526, 35.848, 36.949, 35.821, 35.375, 36.238, 38.312, 37.275, 34.537, 34.079, 33.208, 35.288], "backgroundColor": "#8a9bb099", "borderColor": "#8a9bb0", "borderWidth": 1, "fill": true, "tension": 0.25}, {"label": "Other", "data": [182.648, 251.84, 276.644, 303.949, 290.746, 237.34, 196.499, 171.774, 173.164, 169.597, 212.659, 217.512, 219.984, 219.794, 230.716, 229.711, 230.148, 234.361, 241.807, 241.392, 229.61, 228.783, 223.839, 233.697], "backgroundColor": "#85909699", "borderColor": "#859096", "borderWidth": 1, "fill": true, "tension": 0.25}], "stackedDates": ["2026-09-23", "2026-09-24", "2026-09-25", "2026-09-28", "2026-09-29", "2026-09-30", "2026-10-01", "2026-10-02", "2026-10-05", "2026-10-06", "2026-10-07", "2026-10-08", "2026-10-09", "2026-10-12"], "stackedRecent": [{"label": "XRP", "data": [1072.828, 1061.136, 1109.059, 1060.283, 1098.405, 1066.446, 1063.361, 1097.536, 1085.387, 1083.144, 1028.583, 1005.384, 987.249, 990.886], "backgroundColor": "#23456a99", "borderColor": "#23456a", "borderWidth": 1, "fill": "origin", "tension": 0.25, "spanGaps": true, "pointRadius": 0}, {"label": "Bitcoin", "data": [802.417, 801.782, 798.296, 797.652, 805.816, 806.455, 810.901, 834.883, 832.492, 828.404, 803.108, 797.798, 798.483, 800.375], "backgroundColor": "#96ade699", "borderColor": "#96ade6", "borderWidth": 1, "fill": "-1", "tension": 0.25, "spanGaps": true, "pointRadius": 0}, {"label": "Staked Ethereum", "data": [447.273, 448.95, 450.825, 450.908, 458.857, 453.956, 457.263, 465.184, 461.636, 458.499, 435.853, 428.661, 420.134, 428.733], "backgroundColor": "#c4a88299", "borderColor": "#c4a882", "borderWidth": 1, "fill": "-1", "tension": 0.25, "spanGaps": true, "pointRadius": 0}, {"label": "Bitcoin Prime", "data": [291.653, 300.171, 297.85, 300.941, 304.031, 304.283, 312.263, 321.509, 322.774, 321.2, 311.402, 311.587, 311.865, 312.636], "backgroundColor": "#5a8f8a99", "borderColor": "#5a8f8a", "borderWidth": 1, "fill": "-1", "tension": 0.25, "spanGaps": true, "pointRadius": 0}, {"label": "Staked Solana", "data": [297.491, 302.742, 310.261, 311.388, 319.632, 316.828, 318.535, 326.385, 325.946, 326.357, 314.35, 303.8, 296.106, 295.868], "backgroundColor": "#c4898a99", "borderColor": "#c4898a", "borderWidth": 1, "fill": "-1", "tension": 0.25, "spanGaps": true, "pointRadius": 0}, {"label": "Chainlink", "data": [135.903, 138.467, 152.338, 159.029, 166.959, 158.265, 162.92, 163.255, 159.281, 158.498, 152.466, 147.256, 144.67, 148.458], "backgroundColor": "#6b7c9399", "borderColor": "#6b7c93", "borderWidth": 1, "fill": "-1", "tension": 0.25, "spanGaps": true, "pointRadius": 0}, {"label": "Crypto Top 10 Index SEK", "data": [151.274, 151.527, 152.236, 151.295, 153.596, 152.524, 153.177, 156.991, 156.402, 155.461, 149.65, 147.212, 145.331, 146.718], "backgroundColor": "#eea04f99", "borderColor": "#eea04f", "borderWidth": 1, "fill": "-1", "tension": 0.25, "spanGaps": true, "pointRadius": 0}, {"label": "Crypto Altcoin Index", "data": [115.741, 118.545, 122.126, 123.241, 124.882, 122.114, 122.01, 125.348, 127.996, 127.363, 121.373, 118.626, 115.567, 117.087], "backgroundColor": "#7a9bb899", "borderColor": "#7a9bb8", "borderWidth": 1, "fill": "-1", "tension": 0.25, "spanGaps": true, "pointRadius": 0}, {"label": "Coinbase 50 Index", "data": [72.31, 72.402, 72.816, 72.503, 73.726, 73.172, 73.365, 75.298, 74.872, 74.502, 71.541, 70.449, 69.679, 70.413], "backgroundColor": "#a8907099", "borderColor": "#a89070", "borderWidth": 1, "fill": "-1", "tension": 0.25, "spanGaps": true, "pointRadius": 0}, {"label": "Arbitrum", "data": [39.317, 38.154, 38.526, 35.848, 36.949, 35.821, 35.375, 36.238, 38.312, 37.275, 34.537, 34.079, 33.208, 35.288], "backgroundColor": "#8a9bb099", "borderColor": "#8a9bb0", "borderWidth": 1, "fill": "-1", "tension": 0.25, "spanGaps": true, "pointRadius": 0}, {"label": "Other", "data": [212.659, 217.512, 219.984, 219.794, 230.716, 229.711, 230.148, 234.361, 241.807, 241.392, 229.61, 228.783, 223.839, 233.697], "backgroundColor": "#85909699", "borderColor": "#859096", "borderWidth": 1, "fill": "-1", "tension": 0.25, "spanGaps": true, "pointRadius": 0}], "totalRevMSek": [43.2479, 43.4759, 45.4824, 50.1836, 49.868, 49.7782, 58.786, 59.879, 62.7249, 70.3692, 63.7157, 69.5654, 65.0787, 62.5371, 61.9448, 53.3186, 48.0643, 47.9425, 51.3012, 53.1408, 50.3128, 36.1929, 36.4734, 40.0446, 37.0836, 36.8016, 38.4936, 39.9635, 41.8776, 42.2948, 39.9494, 41.167, 39.6744, 36.7251, 44.9367, 45.6218, 50.468, 50.5555, 51.682, 51.0183, 52.2944, 51.4514, 51.628, 52.9696, 52.8334, 52.6172, 50.3538, 49.4984, 48.7943, 49.3166], "revIsEstimated": [true, false, false, true, true, true, false, true, true, true, true, false, true, true, false, true, true, true, false, true, false, true, true, true, true, true, true, false, true, true, false, true, false, true, true, true, false, false, false, false, false, false, false, false, false, false, false, false, false, false], "cumulative": [119112.0, 243722.0, 404779.0, 595369.0, 765081.0, 905632.0, 1043475.0, 1152964.0, 1262415.0, 1371111.0, 1509380.0, 1647888.0, 1789483.0, 1929259.0, 2072531.0, 2213494.0, 2354940.0, 2500062.0, 2644811.0, 2788968.0, 2926924.0, 3062536.0, 3196219.0, 3331333.0], "flowBarLabels": ["XRP", "Bitcoin", "Staked Solana", "Chainlink", "Staked Ethereum", "Bitcoin Prime", "Arbitrum", "Staked Cardano", "Sui", "Polygon", "Staked Polkadot", "Hyperliquid"], "flowBarMSek": [6.093, 2.352, 1.839, 1.226, 0.997, 0.951, 0.436, 0.361, 0.15, 0.141, 0.138, 0.133]};
 const isMobile = window.matchMedia('(max-width: 640px)').matches;
 const grid = { color: 'rgba(15,23,41,0.08)' };
 const tick = {
